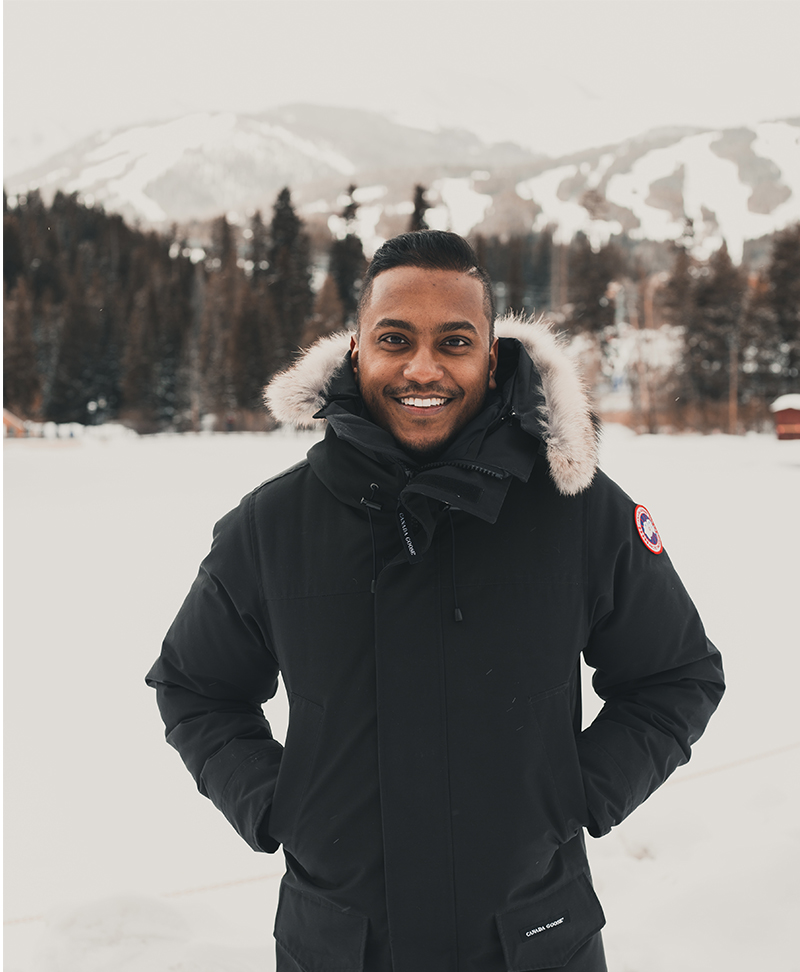
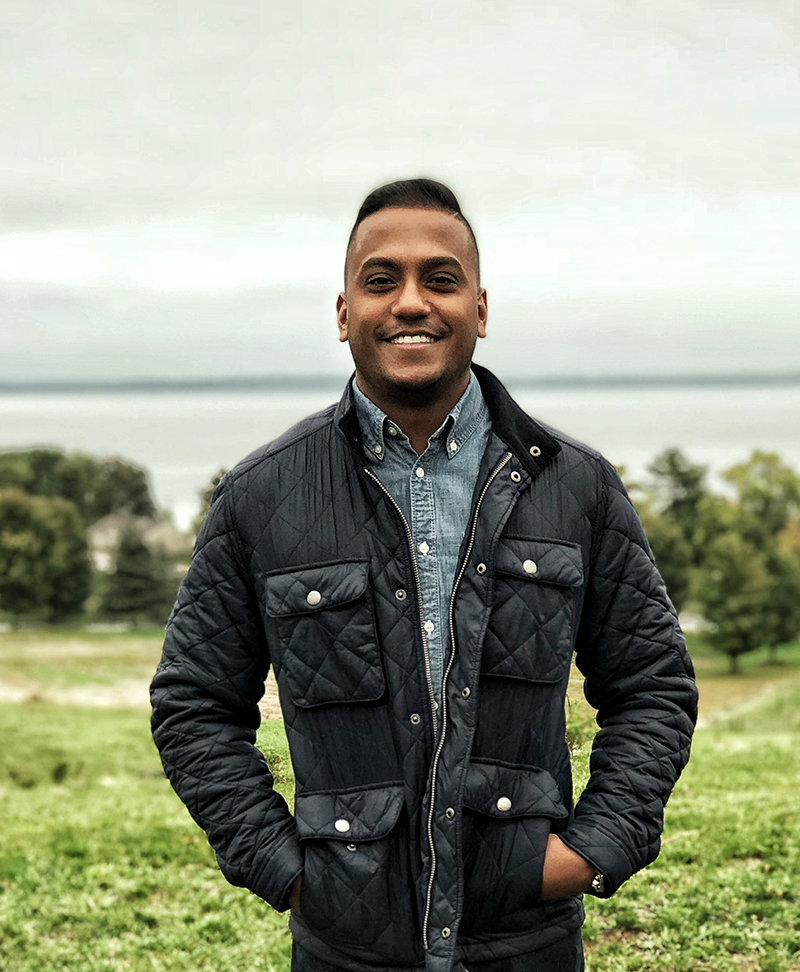
new

diff --git a/index.html b/index.html
@@ -35,8 +35,8 @@
 	<link rel="stylesheet" href="css/bootstrap.css">
 	<!-- Flexslider  -->
 	<link rel="stylesheet" href="css/flexslider.css">
-	<!-- Flaticons  -->
-	<link rel="stylesheet" href="fonts/flaticon/font/flaticon.css">
+	<!-- Flaticons 
+	<link rel="stylesheet" href="fonts/flaticon/font/flaticon.css"> -->
 	<!-- Owl Carousel -->
 	<link rel="stylesheet" href="css/owl.carousel.min.css">
 	<link rel="stylesheet" href="css/owl.theme.default.min.css">
@@ -59,7 +59,7 @@
 			<div class="text-center">
 				<div class="author-img" style="background-image: url(images/about.jpg);"></div>
 				<h1 id="portfolio-logo"><a href="index.html">Sanjay Swamidass</a></h1>
-				<span class="position"><a href="#">Designer & Developer</span>
+				<span class="position"><a href="#">UX Engineer</span>
 			</div>
 			<nav id="portfolio-main-menu" role="navigation" class="navbar">
 				<div id="navbar" class="collapse">
@@ -81,13 +81,14 @@
 					<li><a href="https://www.facebook.com/SanjaySwamidass" target="blank"><i class="icon-facebook2"></i></a></li>
 					<li><a href="https://www.instagram.com/tha_sanj/" target="blank"><i class="icon-instagram"></i></a></li>
 					<li><a href="https://www.linkedin.com/in/sanjay-swamidass-a860103a/" target="blank"><i class="icon-linkedin2"></i></a></li>
+					<li><a href="sswamidass_resume.pdf" download="Resume" target="blank" target="blank"><i class="icon-file"></i></a></li>
 				</ul>
 			</div>
 
 		</aside>
 
 		<div id="portfolio-main">
-			<section id="portfolio-hero" class="js-fullheight" data-section="home">
+			<!-- <section id="portfolio-hero" class="js-fullheight" data-section="home">
 				<div class="flexslider js-fullheight">
 					<ul class="slides">
 				   	<li style="background-image: url(images/img_bg_1.jpg);">
@@ -124,7 +125,7 @@
 				   	</li>
 				  	</ul>
 			  	</div>
-			</section>
+			</section> -->
 
 			<section class="portfolio-about" data-section="about">
 				<div class="portfolio-narrow-content">
@@ -135,7 +136,7 @@
 									<div class="about-desc">
 										<span class="heading-meta">Who Am I?</span>
 										<h2 class="portfolio-heading">About Me</h2>
-										<p><strong>Hi I'm Sanjay Swamidass</strong> I am an experienced UX/UI designer and developer with a demonstrated history of working in the corporate industry. Skilled in Web Design, PHP, JavaScript, MySQL, HTML5 & CSS3, and much more, I am a strong design and development professional with a Bachelor of Fine Arts (BFA) focused in Web Design from Andrews University</p>
+										<p><strong>Hello! My name is Sanjay, and </strong> I am an experienced UX/UI designer and developer with a demonstrated history of working in the corporate industry. Skilled in Web Design, PHP, JavaScript, MySQL, HTML5 & CSS3, and much more, I am a strong design and development professional with a Bachelor of Fine Arts (BFA) focused in Web Design from Andrews University</p>
 										<p>Currently, I work for a subsidiary of the Mitsubishi Corporation umbrella (Mitsubishi EDM/Laser - MC Machinery Systems, Inc.). I've been employed by this company for almost 5 years. I was initially brought on as the lead design/front-end developer to conceptualize, design, and build a remote monitoring web application for the company's machining/fabrication products. This application has served as a reactive & preventative maintenance tool for customers to gain real-time insight, productivity information, and maintenance metrics on their machines. Like all applications, this has been an ongoing project and it continuously evolves to keep up with industry standards. The application has gained great momentum over the past 5 years, and has become an industry leader and often has been the deal breaker in a sale. </p>
 									</div>
 								</div>
